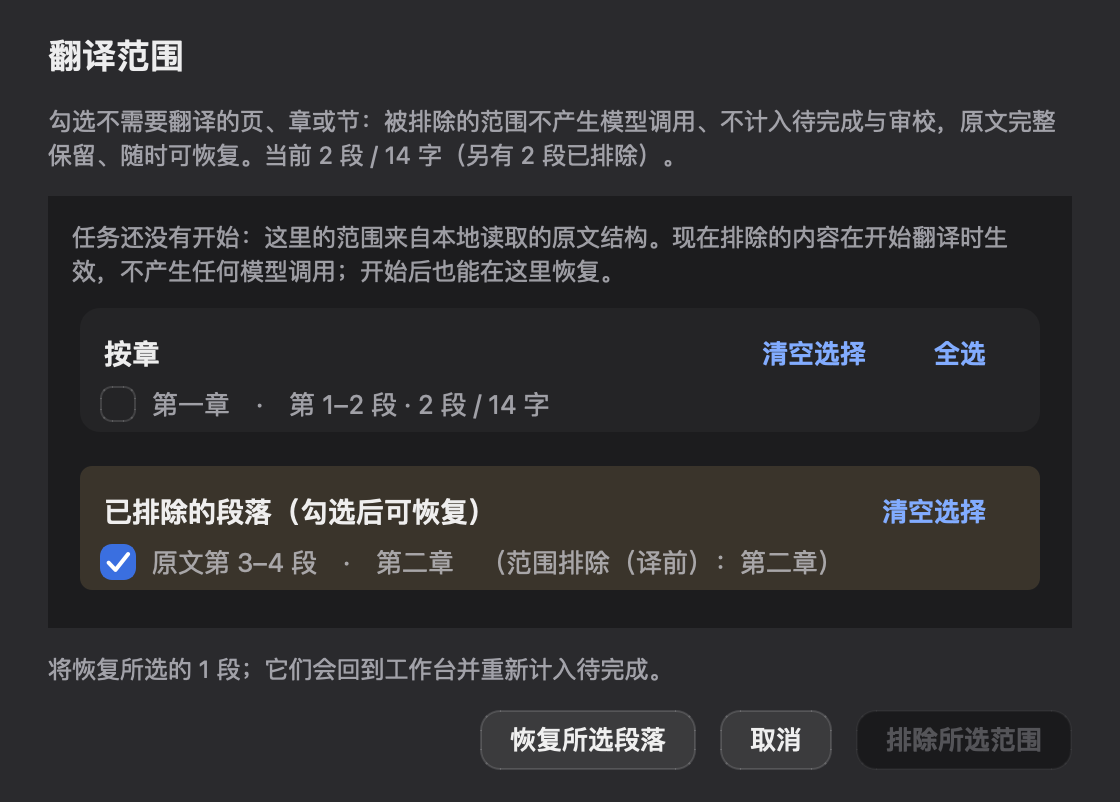
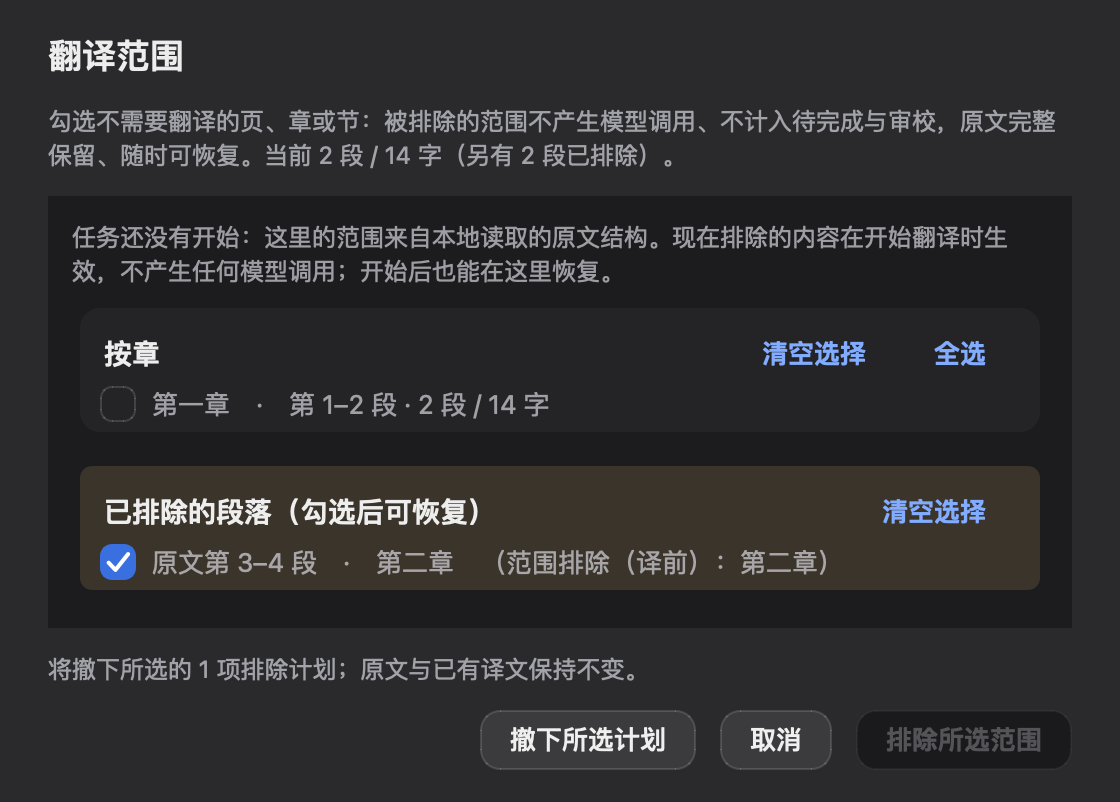
fix(scope): distinguish withdrawing plans from restoring segments

diff --git a/folith/qt/scope_dialog.py b/folith/qt/scope_dialog.py
@@ -234,6 +234,10 @@ class ScopeDialog(QDialog):
                         selected_chars += int(node.get("chars") or 0)
         total = self.scope.get("total") or {}
         restore_ids = self.selected_restore_ids()
+        plans_only = bool(restore_ids) and all(
+            self._record_checks[item][1].get("planned") for item in restore_ids)
+        self.restore_button.setText(i18n.tr('撤下所选计划') if plans_only
+                                    else i18n.tr('恢复所选段落'))
         remaining_segments = max(0, int(total.get("segments") or 0) - selected_segments)
         if keys:
             self.summary_label.setText(i18n.tr(
@@ -241,6 +245,9 @@ class ScopeDialog(QDialog):
                 v0=selected_segments, v1=selected_chars,
                 v2=remaining_segments,
                 v3=max(0, int(total.get("chars") or 0) - selected_chars)))
+        elif plans_only:
+            self.summary_label.setText(i18n.tr(
+                '将撤下所选的 {v0} 项排除计划；原文与已有译文保持不变。', v0=len(restore_ids)))
         elif restore_ids:
             self.summary_label.setText(i18n.tr(
                 '将恢复所选的 {v0} 段；它们会回到工作台并重新计入待完成。',

diff --git a/folith/qt/window.py b/folith/qt/window.py
@@ -2674,8 +2674,11 @@ class MainWindow(QMainWindow):
         except adapter.AdapterError as exc:
             self._failure(i18n.tr('无法恢复所选段落'), str(exc))
             return
-        self._notice(i18n.tr('已恢复 {v0} 段；它们回到工作台并重新计入待完成。',
-                             v0=result.get("restored", 0)))
+        if result.get("unplanned"):
+            self._notice(i18n.tr('已撤下 {v0} 项译前排除计划。', v0=result["unplanned"]))
+        else:
+            self._notice(i18n.tr('已恢复 {v0} 段；它们回到工作台并重新计入待完成。',
+                                 v0=result.get("restored", 0)))
         self.refresh_workbench(force=True)
 
     # ================= 收尾 =================

diff --git a/tests/qt_client_window_test.py b/tests/qt_client_window_test.py
@@ -4791,3 +4791,9 @@ def test_setup_scope_button_opens_real_dialog_and_saves_a_plan(client):
     assert state["scope_exclusion_plan"]["entries"][0]["label"] == "第二章"
     assert not state["paras"] and not state["pairs"]
     assert not state.get("excluded_segments")
+    dialog = ScopeDialog(job, window)
+    for check, _record in dialog._record_checks.values():
+        check.setChecked(True)
+    assert dialog.restore_button.text() == "撤下所选计划"
+    assert "1 项排除计划" in dialog.summary_label.text()
+    dialog.close()

diff --git a/folith/engine/segments.py b/folith/engine/segments.py
@@ -1171,6 +1171,7 @@ def _unplan_scope_exclusion(state, job_id, wanted, *, actor):
     _c.save_job_state(job_id, state)
     return {
         "restored": len(wanted),
+        "unplanned": len(wanted),
         "remaining": (len(_segment_source_list(state)) if state.get("p1_done")
                       else _planned_paragraph_total(state)),
         "state": state,
